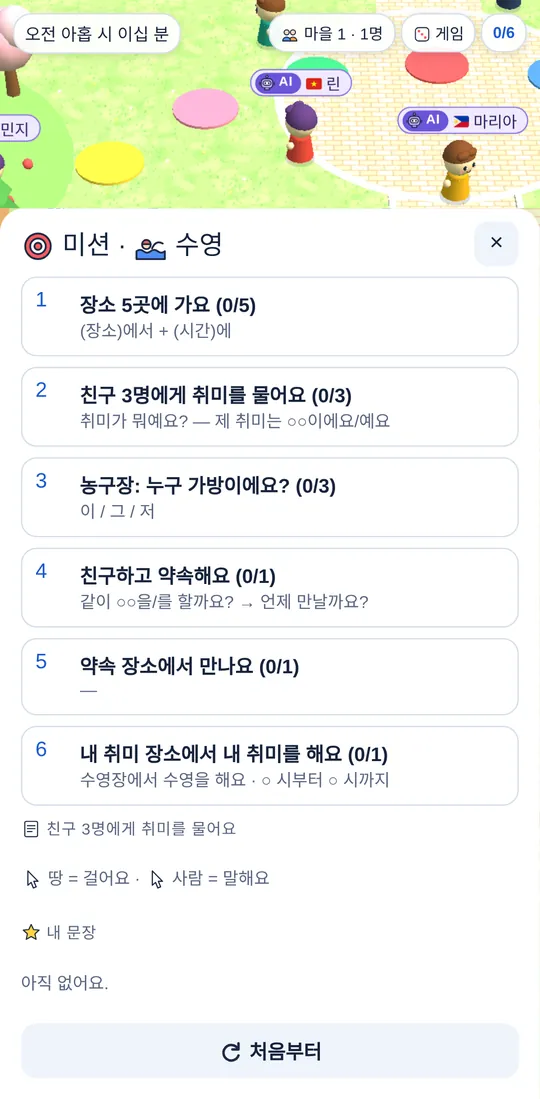
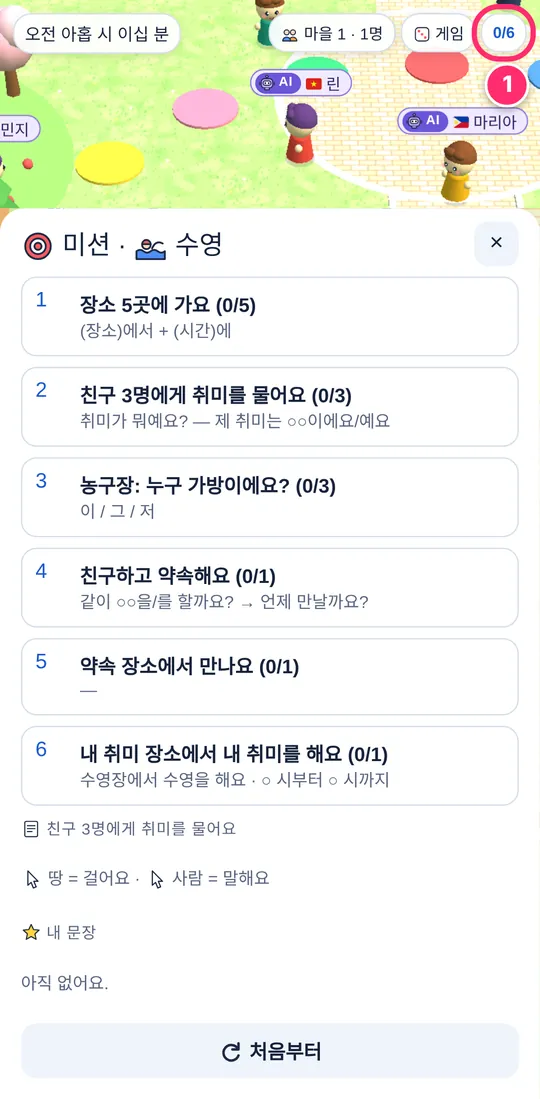
설명서: 미션 버튼 표시, 머리말 정리
Claude-Session: https://claude.ai/code/session_01RFdmgdoBKsSbAvo4WrkuGR

diff --git a/guide/index.html b/guide/index.html
@@ -22,7 +22,7 @@ body{background:var(--bg);color:var(--ink);font-family:var(--body);font-size:18p
 .hero{background:linear-gradient(180deg,var(--sky) 0%,var(--sky) 62%,var(--grass) 62%,var(--grass) 100%)}
 .hero .wrap{padding-block:44px 40px;display:flex;flex-direction:column;gap:12px}
 .hero h1{font-family:var(--display);font-weight:400;font-size:clamp(40px,8vw,72px);line-height:1.05;margin:0;text-wrap:balance;letter-spacing:-.01em}
-.hero p{margin:0;font-size:20px;max-width:30ch}
+.hero p{margin:0;font-size:clamp(15px,4.6vw,20px);white-space:nowrap}
 .hero .tag{align-self:flex-start;background:var(--paper);border:2px solid var(--ink);border-radius:999px;padding:4px 14px;font-weight:700;box-shadow:0 3px 0 var(--ink);font-size:16px}
 nav.toc{position:sticky;top:env(safe-area-inset-top,0px);z-index:5;background:var(--bg);border-bottom:1px solid var(--line)}
 body::before{content:"";position:fixed;inset:0 0 auto;height:env(safe-area-inset-top,0px);z-index:10;background:var(--bg)}
@@ -56,7 +56,7 @@ html{scroll-behavior:smooth}
 </head>
 <body>
 <header class="hero"><div class="wrap">
-  <span class="tag">한국어 취미 마을 · 2과 3과</span>
+  <span class="tag">한국어 취미 마을</span>
   <h1>취미 마을<br>사용 설명서</h1>
   <p>그림을 보고 따라 해요. 한국어로 말해요!</p>
 </div></header>
@@ -68,7 +68,7 @@ html{scroll-behavior:smooth}
     <span><span class="sw" style="background:#f3efff"></span>보라색 = AI 친구</span>
     <span><span class="sw" style="background:#ffffff"></span>흰색 = 친구</span>
   </div>
-  <section class="chap" id="c1"><header class="chap-h"><span class="chap-n">1</span><h2>들어가요</h2></header><div class="steps"><article class="step"><figure class="phone"><img src="img/01_country.webp" alt="내 나라를 눌러요 화면" loading="lazy" width="540" height="1099"></figure><div class="txt"><span class="sn">1</span><h3>내 나라를 눌러요</h3><p>국기를 보고 내 나라를 찾아요.</p><p>한 번 누르면 다음 화면이 나와요.</p></div></article><article class="step"><figure class="phone"><img src="img/02_name.webp" alt="이름을 써요 화면" loading="lazy" width="540" height="1099"></figure><div class="txt"><span class="sn">2</span><h3>이름을 써요</h3><p>한글 자판으로 이름을 써요.</p><p>ABC를 누르면 내 폰 자판으로 써요.</p><ol class="legend"><li><span class="pin">1</span>이름 칸</li><li><span class="pin">2</span>한글 자판</li></ol></div></article><article class="step"><figure class="phone"><img src="img/04_color_hobby.webp" alt="색깔과 취미를 골라요 화면" loading="lazy" width="540" height="1099"></figure><div class="txt"><span class="sn">3</span><h3>색깔과 취미를 골라요</h3><p>내 색깔을 하나 눌러요.</p><p>내 취미를 하나 눌러요.</p><ol class="legend"><li><span class="pin">1</span>색깔</li><li><span class="pin">2</span>취미</li></ol></div></article><article class="step"><figure class="phone"><img src="img/03_need.webp" alt="빨간 글이 나와요? 화면" loading="lazy" width="540" height="1099"></figure><div class="txt"><span class="sn">4</span><h3>빨간 글이 나와요?</h3><p>빠진 것이 있어요.</p><p>빨간 글을 읽고 골라요.</p></div></article><article class="step"><figure class="phone"><img src="img/05_enter.webp" alt="들어가요! 화면" loading="lazy" width="540" height="1099"></figure><div class="txt"><span class="sn">5</span><h3>들어가요!</h3><p>파란 버튼을 눌러요.</p><p>마을에 들어가요.</p></div></article></div></section><section class="chap" id="c2"><header class="chap-h"><span class="chap-n">2</span><h2>마을을 봐요</h2></header><div class="steps"><article class="step"><figure class="phone"><img src="img/06_town.webp" alt="마을 화면 화면" loading="lazy" width="540" height="1099"></figure><div class="txt"><span class="sn">6</span><h3>마을 화면</h3><p>위와 아래에 버튼이 있어요.</p><ol class="legend"><li><span class="pin">1</span>시계 (마을 시간)</li><li><span class="pin">2</span>마을 · 사람 수</li><li><span class="pin">3</span>게임</li><li><span class="pin">4</span>미션</li><li><span class="pin">5</span>감정</li><li><span class="pin">6</span>마을 소식</li><li><span class="pin">7</span>소리</li></ol></div></article><article class="step"><figure class="phone"><img src="img/07_walk.webp" alt="걸어요 화면" loading="lazy" width="540" height="1099"></figure><div class="txt"><span class="sn">7</span><h3>걸어요</h3><p>땅을 눌러요.</p><p>내 캐릭터가 걸어가요.</p></div></article></div></section><section class="chap" id="c3"><header class="chap-h"><span class="chap-n">3</span><h2>AI 친구하고 말해요</h2></header><div class="steps"><article class="step"><figure class="phone"><img src="img/08_npc_open.webp" alt="AI 친구를 눌러요 화면" loading="lazy" width="540" height="1099"></figure><div class="txt"><span class="sn">8</span><h3>AI 친구를 눌러요</h3><p>보라색 이름표 = AI 친구예요.</p><p>AI 친구가 질문해요.</p><ol class="legend"><li><span class="pin">1</span>질문</li><li><span class="pin">2</span>카드</li></ol></div></article><article class="step"><figure class="phone"><img src="img/09_npc_cards.webp" alt="카드를 눌러요 화면" loading="lazy" width="540" height="1099"></figure><div class="txt"><span class="sn">9</span><h3>카드를 눌러요</h3><p>카드를 순서대로 눌러요.</p><p>문장이 맞으면 말해요를 눌러요.</p><ol class="legend"><li><span class="pin">1</span>내 문장</li><li><span class="pin">2</span>말해요</li></ol></div></article><article class="step"><figure class="phone"><img src="img/10_npc_reply.webp" alt="대답이 와요 화면" loading="lazy" width="540" height="1099"></figure><div class="txt"><span class="sn">10</span><h3>대답이 와요</h3><p>노란 말풍선 = 나.</p><p>흰 말풍선 = 친구.</p><p>🔊를 누르면 들어요.</p></div></article><article class="step"><figure class="phone"><img src="img/11_keyboard.webp" alt="직접 써요 화면" loading="lazy" width="540" height="1099"></figure><div class="txt"><span class="sn">11</span><h3>직접 써요</h3><p>연필을 누르면 자판이 나와요.</p><p>한글로 직접 써요.</p><ol class="legend"><li><span class="pin">1</span>연필 · 카드</li><li><span class="pin">2</span>한글 자판</li></ol></div></article><article class="step"><figure class="phone"><img src="img/12_wrong.webp" alt="틀렸어요? 화면" loading="lazy" width="540" height="1099"></figure><div class="txt"><span class="sn">12</span><h3>틀렸어요?</h3><p>괜찮아요!</p><p>바른 문장이 나와요.</p><p>🔊 듣고 다시 해요.</p></div></article><article class="step"><figure class="phone"><img src="img/13_fold.webp" alt="창을 작게 해요 화면" loading="lazy" width="540" height="1099"></figure><div class="txt"><span class="sn">13</span><h3>창을 작게 해요</h3><p>⌄를 누르면 창이 작아져요.</p><p>마을이 잘 보여요.</p><p>다시 누르면 커져요.</p></div></article></div></section><section class="chap" id="c4"><header class="chap-h"><span class="chap-n">4</span><h2>친구하고 말해요</h2></header><div class="steps"><article class="step"><figure class="phone"><img src="img/14_friend_join.webp" alt="친구가 왔어요 화면" loading="lazy" width="540" height="1099"></figure><div class="txt"><span class="sn">14</span><h3>친구가 왔어요</h3><p>사람 수가 바뀌어요.</p><p>흰 이름표 = 친구예요.</p></div></article><article class="step"><figure class="phone"><img src="img/15_friend_ask.webp" alt="친구를 눌러요 화면" loading="lazy" width="540" height="1099"></figure><div class="txt"><span class="sn">15</span><h3>친구를 눌러요</h3><p>카드로 질문을 만들어요.</p><p>“취미가 뭐예요?”</p></div></article><article class="step"><figure class="phone"><img src="img/16_friend_prompt.webp" alt="친구 화면 화면" loading="lazy" width="540" height="1099"></figure><div class="txt"><span class="sn">16</span><h3>친구 화면</h3><p>친구에게 질문이 가요.</p><p>친구가 카드로 대답해요.</p><ol class="legend"><li><span class="pin">1</span>받은 질문</li><li><span class="pin">2</span>대답 카드</li></ol></div></article><article class="step"><figure class="phone"><img src="img/17_friend_typing.webp" alt="••• 쓰고 있어요 화면" loading="lazy" width="540" height="1099"></figure><div class="txt"><span class="sn">17</span><h3>••• 쓰고 있어요</h3><p>친구가 대답을 쓰고 있어요.</p><p>조금 기다려요.</p></div></article><article class="step"><figure class="phone"><img src="img/18_friend_reply.webp" alt="대답이 왔어요 화면" loading="lazy" width="540" height="1099"></figure><div class="txt"><span class="sn">18</span><h3>대답이 왔어요</h3><p>친구의 대답을 읽어요.</p><p>다음 질문을 해요.</p></div></article></div></section><section class="chap" id="c5"><header class="chap-h"><span class="chap-n">5</span><h2>마음을 보여 줘요</h2></header><div class="steps"><article class="step"><figure class="phone"><img src="img/19_emo_tray.webp" alt="감정 스티커 화면" loading="lazy" width="540" height="1099"></figure><div class="txt"><span class="sn">19</span><h3>감정 스티커</h3><p>웃는 얼굴 버튼을 눌러요.</p><p>스티커를 하나 골라요.</p></div></article><article class="step"><figure class="phone"><img src="img/20_emo_show.webp" alt="머리 위에 나와요 화면" loading="lazy" width="540" height="1099"></figure><div class="txt"><span class="sn">20</span><h3>머리 위에 나와요</h3><p>모두 내 스티커를 봐요.</p><p>👋를 보내면 AI 친구가 와요.</p></div></article><article class="step"><figure class="phone"><img src="img/21_feed.webp" alt="마을 소식 화면" loading="lazy" width="540" height="1099"></figure><div class="txt"><span class="sn">21</span><h3>마을 소식</h3><p>누가 왔어요? 누가 뭐 해요?</p><p>×를 누르면 닫혀요.</p></div></article><article class="step"><figure class="phone"><img src="img/22_visitor.webp" alt="AI 친구가 와요 화면" loading="lazy" width="540" height="1099"></figure><div class="txt"><span class="sn">22</span><h3>AI 친구가 와요</h3><p>가만히 있으면 AI 친구가 와요.</p><p>질문에 대답해요.</p></div></article></div></section><section class="chap" id="c6"><header class="chap-h"><span class="chap-n">6</span><h2>장소에서 취미를 해요</h2></header><div class="steps"><article class="step"><figure class="phone"><img src="img/23_place.webp" alt="장소에 가요 화면" loading="lazy" width="540" height="1099"></figure><div class="txt"><span class="sn">23</span><h3>장소에 가요</h3><p>수영장, 농구장, 영화관 …</p><p>동그라미 그림이 있는 곳에 가요.</p></div></article><article class="step"><figure class="phone"><img src="img/24_act_where.webp" alt="어디에서 뭐 해요? 화면" loading="lazy" width="540" height="1099"></figure><div class="txt"><span class="sn">24</span><h3>어디에서 뭐 해요?</h3><p>“수영장에서 수영을 해요.”</p><p>장소 + 에서</p></div></article><article class="step"><figure class="phone"><img src="img/25_act_when.webp" alt="언제 해요? 화면" loading="lazy" width="540" height="1099"></figure><div class="txt"><span class="sn">25</span><h3>언제 해요?</h3><p>“두 시부터 세 시까지 수영을 해요.”</p><p>시간 + 부터 · 까지</p></div></article><article class="step"><figure class="phone"><img src="img/26_act_doing.webp" alt="취미를 해요! 화면" loading="lazy" width="540" height="1099"></figure><div class="txt"><span class="sn">26</span><h3>취미를 해요!</h3><p>시계가 빨리 가요.</p><p>내 문장이 마을 소식에 나와요.</p></div></article></div></section><section class="chap" id="c7"><header class="chap-h"><span class="chap-n">7</span><h2>미션과 게임</h2></header><div class="steps"><article class="step"><figure class="phone"><img src="img/27_missions.webp" alt="미션 화면" loading="lazy" width="540" height="1099"></figure><div class="txt"><span class="sn">27</span><h3>미션</h3><p>오른쪽 위 미션을 눌러요.</p><p>6개 미션을 해요.</p><p>✓ = 다 했어요.</p></div></article><article class="step"><figure class="phone"><img src="img/28_game.webp" alt="보드게임 화면" loading="lazy" width="540" height="1099"></figure><div class="txt"><span class="sn">28</span><h3>보드게임</h3><p>게임을 눌러요.</p><p>굴려요를 눌러요.</p></div></article><article class="step"><figure class="phone"><img src="img/29_game_q.webp" alt="문제를 풀어요 화면" loading="lazy" width="540" height="1099"></figure><div class="txt"><span class="sn">29</span><h3>문제를 풀어요</h3><p>그림을 보고 카드로 대답해요.</p><p>맞으면 점수를 받아요.</p></div></article><article class="step"><figure class="phone"><img src="img/30_game_score.webp" alt="30점이면 이겨요 화면" loading="lazy" width="540" height="1099"></figure><div class="txt"><span class="sn">30</span><h3>30점이면 이겨요</h3><p>점수를 모아요.</p><p>친구 점수도 볼 수 있어요.</p></div></article><article class="step"><figure class="phone"><img src="img/31_night.webp" alt="밤이 돼요 화면" loading="lazy" width="540" height="1099"></figure><div class="txt"><span class="sn">31</span><h3>밤이 돼요</h3><p>마을 시계는 24시간이에요.</p><p>밤에는 불이 켜져요.</p></div></article></div></section>
+  <section class="chap" id="c1"><header class="chap-h"><span class="chap-n">1</span><h2>들어가요</h2></header><div class="steps"><article class="step"><figure class="phone"><img src="img/01_country.webp" alt="내 나라를 눌러요 화면" loading="lazy" width="540" height="1099"></figure><div class="txt"><span class="sn">1</span><h3>내 나라를 눌러요</h3><p>국기를 보고 내 나라를 찾아요.</p><p>한 번 누르면 다음 화면이 나와요.</p></div></article><article class="step"><figure class="phone"><img src="img/02_name.webp" alt="이름을 써요 화면" loading="lazy" width="540" height="1099"></figure><div class="txt"><span class="sn">2</span><h3>이름을 써요</h3><p>한글 자판으로 이름을 써요.</p><p>ABC를 누르면 내 폰 자판으로 써요.</p><ol class="legend"><li><span class="pin">1</span>이름 칸</li><li><span class="pin">2</span>한글 자판</li></ol></div></article><article class="step"><figure class="phone"><img src="img/04_color_hobby.webp" alt="색깔과 취미를 골라요 화면" loading="lazy" width="540" height="1099"></figure><div class="txt"><span class="sn">3</span><h3>색깔과 취미를 골라요</h3><p>내 색깔을 하나 눌러요.</p><p>내 취미를 하나 눌러요.</p><ol class="legend"><li><span class="pin">1</span>색깔</li><li><span class="pin">2</span>취미</li></ol></div></article><article class="step"><figure class="phone"><img src="img/03_need.webp" alt="빨간 글이 나와요? 화면" loading="lazy" width="540" height="1099"></figure><div class="txt"><span class="sn">4</span><h3>빨간 글이 나와요?</h3><p>빠진 것이 있어요.</p><p>빨간 글을 읽고 골라요.</p></div></article><article class="step"><figure class="phone"><img src="img/05_enter.webp" alt="들어가요! 화면" loading="lazy" width="540" height="1099"></figure><div class="txt"><span class="sn">5</span><h3>들어가요!</h3><p>파란 버튼을 눌러요.</p><p>마을에 들어가요.</p></div></article></div></section><section class="chap" id="c2"><header class="chap-h"><span class="chap-n">2</span><h2>마을을 봐요</h2></header><div class="steps"><article class="step"><figure class="phone"><img src="img/06_town.webp" alt="마을 화면 화면" loading="lazy" width="540" height="1099"></figure><div class="txt"><span class="sn">6</span><h3>마을 화면</h3><p>위와 아래에 버튼이 있어요.</p><ol class="legend"><li><span class="pin">1</span>시계 (마을 시간)</li><li><span class="pin">2</span>마을 · 사람 수</li><li><span class="pin">3</span>게임</li><li><span class="pin">4</span>미션</li><li><span class="pin">5</span>감정</li><li><span class="pin">6</span>마을 소식</li><li><span class="pin">7</span>소리</li></ol></div></article><article class="step"><figure class="phone"><img src="img/07_walk.webp" alt="걸어요 화면" loading="lazy" width="540" height="1099"></figure><div class="txt"><span class="sn">7</span><h3>걸어요</h3><p>땅을 눌러요.</p><p>내 캐릭터가 걸어가요.</p></div></article></div></section><section class="chap" id="c3"><header class="chap-h"><span class="chap-n">3</span><h2>AI 친구하고 말해요</h2></header><div class="steps"><article class="step"><figure class="phone"><img src="img/08_npc_open.webp" alt="AI 친구를 눌러요 화면" loading="lazy" width="540" height="1099"></figure><div class="txt"><span class="sn">8</span><h3>AI 친구를 눌러요</h3><p>보라색 이름표 = AI 친구예요.</p><p>AI 친구가 질문해요.</p><ol class="legend"><li><span class="pin">1</span>질문</li><li><span class="pin">2</span>카드</li></ol></div></article><article class="step"><figure class="phone"><img src="img/09_npc_cards.webp" alt="카드를 눌러요 화면" loading="lazy" width="540" height="1099"></figure><div class="txt"><span class="sn">9</span><h3>카드를 눌러요</h3><p>카드를 순서대로 눌러요.</p><p>문장이 맞으면 말해요를 눌러요.</p><ol class="legend"><li><span class="pin">1</span>내 문장</li><li><span class="pin">2</span>말해요</li></ol></div></article><article class="step"><figure class="phone"><img src="img/10_npc_reply.webp" alt="대답이 와요 화면" loading="lazy" width="540" height="1099"></figure><div class="txt"><span class="sn">10</span><h3>대답이 와요</h3><p>노란 말풍선 = 나.</p><p>흰 말풍선 = 친구.</p><p>🔊를 누르면 들어요.</p></div></article><article class="step"><figure class="phone"><img src="img/11_keyboard.webp" alt="직접 써요 화면" loading="lazy" width="540" height="1099"></figure><div class="txt"><span class="sn">11</span><h3>직접 써요</h3><p>연필을 누르면 자판이 나와요.</p><p>한글로 직접 써요.</p><ol class="legend"><li><span class="pin">1</span>연필 · 카드</li><li><span class="pin">2</span>한글 자판</li></ol></div></article><article class="step"><figure class="phone"><img src="img/12_wrong.webp" alt="틀렸어요? 화면" loading="lazy" width="540" height="1099"></figure><div class="txt"><span class="sn">12</span><h3>틀렸어요?</h3><p>괜찮아요!</p><p>바른 문장이 나와요.</p><p>🔊 듣고 다시 해요.</p></div></article><article class="step"><figure class="phone"><img src="img/13_fold.webp" alt="창을 작게 해요 화면" loading="lazy" width="540" height="1099"></figure><div class="txt"><span class="sn">13</span><h3>창을 작게 해요</h3><p>⌄를 누르면 창이 작아져요.</p><p>마을이 잘 보여요.</p><p>다시 누르면 커져요.</p></div></article></div></section><section class="chap" id="c4"><header class="chap-h"><span class="chap-n">4</span><h2>친구하고 말해요</h2></header><div class="steps"><article class="step"><figure class="phone"><img src="img/14_friend_join.webp" alt="친구가 왔어요 화면" loading="lazy" width="540" height="1099"></figure><div class="txt"><span class="sn">14</span><h3>친구가 왔어요</h3><p>사람 수가 바뀌어요.</p><p>흰 이름표 = 친구예요.</p></div></article><article class="step"><figure class="phone"><img src="img/15_friend_ask.webp" alt="친구를 눌러요 화면" loading="lazy" width="540" height="1099"></figure><div class="txt"><span class="sn">15</span><h3>친구를 눌러요</h3><p>카드로 질문을 만들어요.</p><p>“취미가 뭐예요?”</p></div></article><article class="step"><figure class="phone"><img src="img/16_friend_prompt.webp" alt="친구 화면 화면" loading="lazy" width="540" height="1099"></figure><div class="txt"><span class="sn">16</span><h3>친구 화면</h3><p>친구에게 질문이 가요.</p><p>친구가 카드로 대답해요.</p><ol class="legend"><li><span class="pin">1</span>받은 질문</li><li><span class="pin">2</span>대답 카드</li></ol></div></article><article class="step"><figure class="phone"><img src="img/17_friend_typing.webp" alt="••• 쓰고 있어요 화면" loading="lazy" width="540" height="1099"></figure><div class="txt"><span class="sn">17</span><h3>••• 쓰고 있어요</h3><p>친구가 대답을 쓰고 있어요.</p><p>조금 기다려요.</p></div></article><article class="step"><figure class="phone"><img src="img/18_friend_reply.webp" alt="대답이 왔어요 화면" loading="lazy" width="540" height="1099"></figure><div class="txt"><span class="sn">18</span><h3>대답이 왔어요</h3><p>친구의 대답을 읽어요.</p><p>다음 질문을 해요.</p></div></article></div></section><section class="chap" id="c5"><header class="chap-h"><span class="chap-n">5</span><h2>마음을 보여 줘요</h2></header><div class="steps"><article class="step"><figure class="phone"><img src="img/19_emo_tray.webp" alt="감정 스티커 화면" loading="lazy" width="540" height="1099"></figure><div class="txt"><span class="sn">19</span><h3>감정 스티커</h3><p>웃는 얼굴 버튼을 눌러요.</p><p>스티커를 하나 골라요.</p></div></article><article class="step"><figure class="phone"><img src="img/20_emo_show.webp" alt="머리 위에 나와요 화면" loading="lazy" width="540" height="1099"></figure><div class="txt"><span class="sn">20</span><h3>머리 위에 나와요</h3><p>모두 내 스티커를 봐요.</p><p>👋를 보내면 AI 친구가 와요.</p></div></article><article class="step"><figure class="phone"><img src="img/21_feed.webp" alt="마을 소식 화면" loading="lazy" width="540" height="1099"></figure><div class="txt"><span class="sn">21</span><h3>마을 소식</h3><p>누가 왔어요? 누가 뭐 해요?</p><p>×를 누르면 닫혀요.</p></div></article><article class="step"><figure class="phone"><img src="img/22_visitor.webp" alt="AI 친구가 와요 화면" loading="lazy" width="540" height="1099"></figure><div class="txt"><span class="sn">22</span><h3>AI 친구가 와요</h3><p>가만히 있으면 AI 친구가 와요.</p><p>질문에 대답해요.</p></div></article></div></section><section class="chap" id="c6"><header class="chap-h"><span class="chap-n">6</span><h2>장소에서 취미를 해요</h2></header><div class="steps"><article class="step"><figure class="phone"><img src="img/23_place.webp" alt="장소에 가요 화면" loading="lazy" width="540" height="1099"></figure><div class="txt"><span class="sn">23</span><h3>장소에 가요</h3><p>수영장, 농구장, 영화관 …</p><p>동그라미 그림이 있는 곳에 가요.</p></div></article><article class="step"><figure class="phone"><img src="img/24_act_where.webp" alt="어디에서 뭐 해요? 화면" loading="lazy" width="540" height="1099"></figure><div class="txt"><span class="sn">24</span><h3>어디에서 뭐 해요?</h3><p>“수영장에서 수영을 해요.”</p><p>장소 + 에서</p></div></article><article class="step"><figure class="phone"><img src="img/25_act_when.webp" alt="언제 해요? 화면" loading="lazy" width="540" height="1099"></figure><div class="txt"><span class="sn">25</span><h3>언제 해요?</h3><p>“두 시부터 세 시까지 수영을 해요.”</p><p>시간 + 부터 · 까지</p></div></article><article class="step"><figure class="phone"><img src="img/26_act_doing.webp" alt="취미를 해요! 화면" loading="lazy" width="540" height="1099"></figure><div class="txt"><span class="sn">26</span><h3>취미를 해요!</h3><p>시계가 빨리 가요.</p><p>내 문장이 마을 소식에 나와요.</p></div></article></div></section><section class="chap" id="c7"><header class="chap-h"><span class="chap-n">7</span><h2>미션과 게임</h2></header><div class="steps"><article class="step"><figure class="phone"><img src="img/27_missions.webp" alt="미션 화면" loading="lazy" width="540" height="1099"></figure><div class="txt"><span class="sn">27</span><h3>미션</h3><p>오른쪽 위 0/6을 눌러요.</p><p>6개 미션을 해요.</p><p>✓ = 다 했어요.</p><ol class="legend"><li><span class="pin">1</span>미션 (0/6)</li></ol></div></article><article class="step"><figure class="phone"><img src="img/28_game.webp" alt="보드게임 화면" loading="lazy" width="540" height="1099"></figure><div class="txt"><span class="sn">28</span><h3>보드게임</h3><p>게임을 눌러요.</p><p>굴려요를 눌러요.</p></div></article><article class="step"><figure class="phone"><img src="img/29_game_q.webp" alt="문제를 풀어요 화면" loading="lazy" width="540" height="1099"></figure><div class="txt"><span class="sn">29</span><h3>문제를 풀어요</h3><p>그림을 보고 카드로 대답해요.</p><p>맞으면 점수를 받아요.</p></div></article><article class="step"><figure class="phone"><img src="img/30_game_score.webp" alt="30점이면 이겨요 화면" loading="lazy" width="540" height="1099"></figure><div class="txt"><span class="sn">30</span><h3>30점이면 이겨요</h3><p>점수를 모아요.</p><p>친구 점수도 볼 수 있어요.</p></div></article><article class="step"><figure class="phone"><img src="img/31_night.webp" alt="밤이 돼요 화면" loading="lazy" width="540" height="1099"></figure><div class="txt"><span class="sn">31</span><h3>밤이 돼요</h3><p>마을 시계는 24시간이에요.</p><p>밤에는 불이 켜져요.</p></div></article></div></section>
   <p class="end">자, 마을에 가요! 👋</p>
 </main>
 
